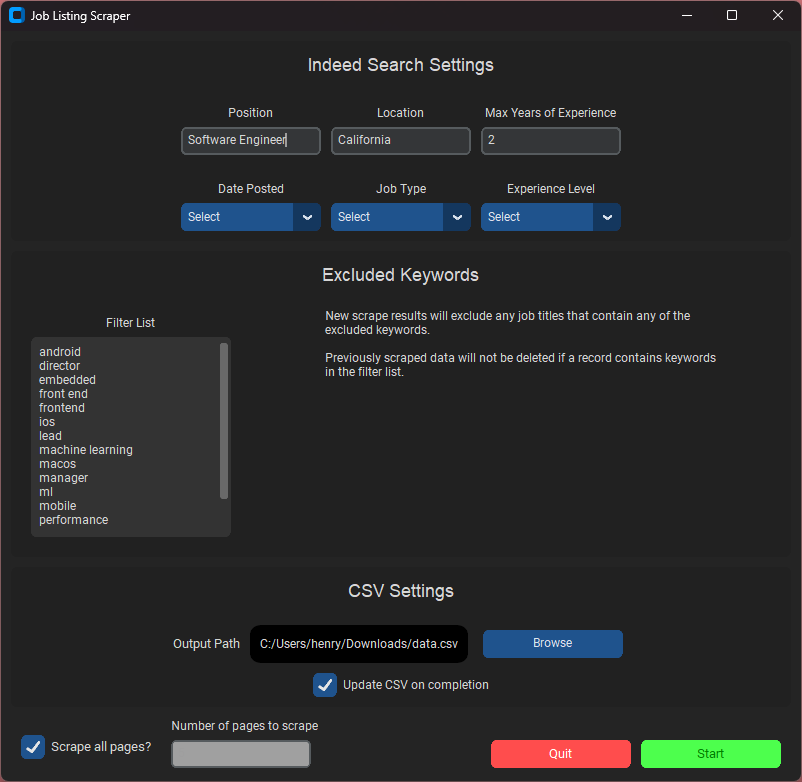
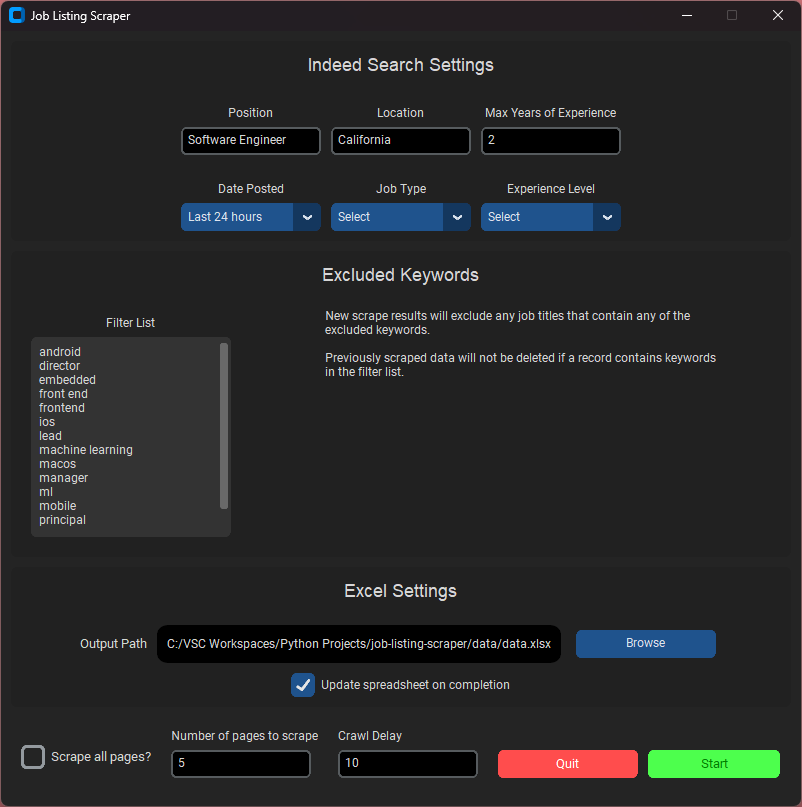
docs: Update screenshots and README

diff --git a/README.md b/README.md
@@ -4,7 +4,11 @@ This application scrapes Indeed job results and parses the data into a working E
 
 ## Usage
 
-![Screenshot of Feature X](./screenshots/gui.png)
+![Screenshot of scraper GUI](./screenshots/gui.png)
+
+### Example Data Output
+
+![Screenshot of Excel spreadsheet output](./screenshots/data_output.png)
 
 ## Features
 
